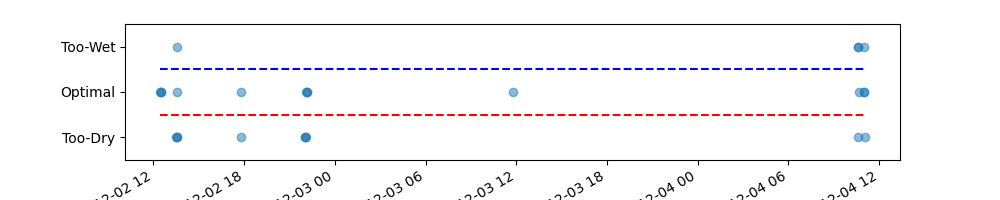
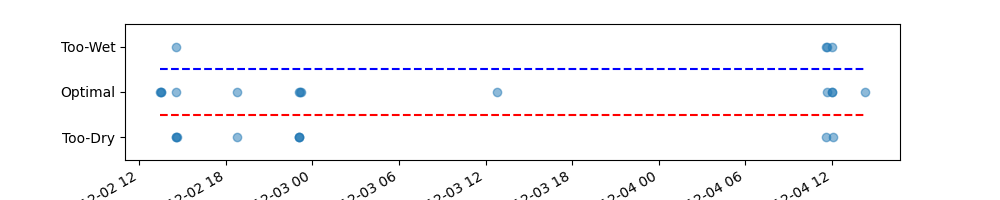
notification functionality

diff --git a/index.html b/index.html
@@ -1,1 +1,1 @@
-<h >Lawn Moisture Monitor</h><br ></br><h4 >48-Hour Moisture Trend:</h4><img src="moisture-trend.png"></img><br ></br><p >Current Moisture Content: low</p><p >Suggested Action:  The Plant/Lawn Needs Watering</p>
+<h >Lawn Moisture Monitor</h><br ></br><h4 >48-Hour Moisture Trend:</h4><img src="moisture-trend.png"></img><br ></br><p >Current Moisture Content: optimal</p><p >Suggested Action:  Water if the Temperature is 80-Degrees Farenheit. Outside Plants or Lawn Only.</p>

diff --git a/notification.py b/notification.py
@@ -1,4 +1,3 @@
-from format_index import get_moisture_data
 import smtplib
 from email.mime.text import MIMEText
 from email.mime.multipart import MIMEMultipart
@@ -25,7 +24,7 @@ ARTICLE_LIST = [
 ]
 LINK_TO_SITE = "For Information regarding your weekly ground moisture information please visit: https://cs370team.github.io/"
 LAWN_REMINDER = "Lawn upkeep reminder: Check lawn height. Mow to 1/3 of grass height if lawn has grown to 6'' or more.\n"
-
+MOISTURE_REMINDER = "Lawn/Plant moisture reminder: Moisture levels are currently low, please water your plant or lawn.\n"
 
 def read_last_notification(file_path):
     try:
@@ -39,39 +38,44 @@ def write_last_notification_date(file_path, date_time):
     with open(file_path, "w") as file:
         file.write(date_time.strftime("%Y-%m-%d %H:%M:%S"))
 
+def send_notification(email_content):
+    sender_email = 'cs370lawnnotification@gmail.com'
+    sender_password = 'dcnm btut dtfb rqkn'
+    receiver_email = 'luke.elerson@yahoo.com'
+
+
+    # This creates the object that represents the email we're sending
+    msg = MIMEMultipart()
+    msg['From'] = sender_email
+    msg['To'] = receiver_email
+    msg['Subject'] = "Lawn Information Notification"
+    msg.attach(MIMEText(email_content, 'plain'))
+
+    # Try to connect to gmail's SMTP server, if not successful print error
+    try:
+        server = smtplib.SMTP('smtp.gmail.com', 587)
+        server.starttls()  # Use TLS encryption
+        server.login(sender_email, sender_password)
+        server.sendmail(sender_email, receiver_email, msg.as_string())
+        print('Email sent successfully!')
+        
+    except Exception as e:
+        print(f'An error occurred: {str(e)}')
+        
+    finally:
+        server.quit()
+
 def lawn_notification():
-
     file_path = "lastLawnNotification.txt"
-
     last_notification_date = read_last_notification(file_path)
+    email_content = f"{LAWN_REMINDER}\n{LINK_TO_SITE}\n\n" + "\n".join(ARTICLE_LIST)
 
     if datetime.datetime.now() - last_notification_date >= datetime.timedelta(weeks=1):
-        sender_email = 'cs370lawnnotification@gmail.com'
-        sender_password = 'dcnm btut dtfb rqkn'
-        receiver_email = 'ayoungren94@gmail.com'
-        email_content = f"{LAWN_REMINDER}\n{LINK_TO_SITE}\n\n" + "\n".join(ARTICLE_LIST)
-
-        # This creates the object that represents the email we're sending
-        msg = MIMEMultipart()
-        msg['From'] = sender_email
-        msg['To'] = receiver_email
-        msg['Subject'] = "Lawn Information Notification"
-        msg.attach(MIMEText(email_content, 'plain'))
-
-        # Try to connect to gmail's SMTP server, if not successful print error
-        try:
-            server = smtplib.SMTP('smtp.gmail.com', 587)
-            server.starttls()  # Use TLS encryption
-            server.login(sender_email, sender_password)
-            
-            server.sendmail(sender_email, receiver_email, msg.as_string())
-            write_last_notification_date(file_path, datetime.datetime.now())
-            print('Email sent successfully!')
-            
-        except Exception as e:
-            print(f'An error occurred: {str(e)}')
-            
-        finally:
-            server.quit()
+        send_notification(email_content)
+        write_last_notification_date(file_path, datetime.datetime.now())
     else:
-        print("Has not been a week.")
+        print("A week has not passed since the last lawn notification.")
+
+def moisture_notification():
+    email_content = f"{MOISTURE_REMINDER}\n{LINK_TO_SITE}\n\n" + "\n".join(ARTICLE_LIST)
+    send_notification(email_content)

diff --git a/format_index.py b/format_index.py
@@ -1,3 +1,4 @@
+from notification import moisture_notification
 import matplotlib.pyplot as plt
 import matplotlib.dates as mdates
 import datetime
@@ -35,6 +36,7 @@ def tag(tag, text="", options=""):
 
 def get_suggested_action(current_moisture): #TODO make this dynamic
     if (current_moisture == 'low'):
+        moisture_notification()
         return " The Plant/Lawn Needs Watering"
     elif (current_moisture == 'optimal'):
         return " Water if the Temperature is 80-Degrees Farenheit. Outside Plants or Lawn Only."

diff --git a/main.py b/main.py
@@ -1,7 +1,7 @@
 from format_index import update_html
-from sensorSimulator import Sensor
+# from sensorSimulator import Sensor
 from notification import lawn_notification
-# from sensor import Sensor
+from sensor import Sensor
 from time import time, sleep
 from math import floor
 import csv
